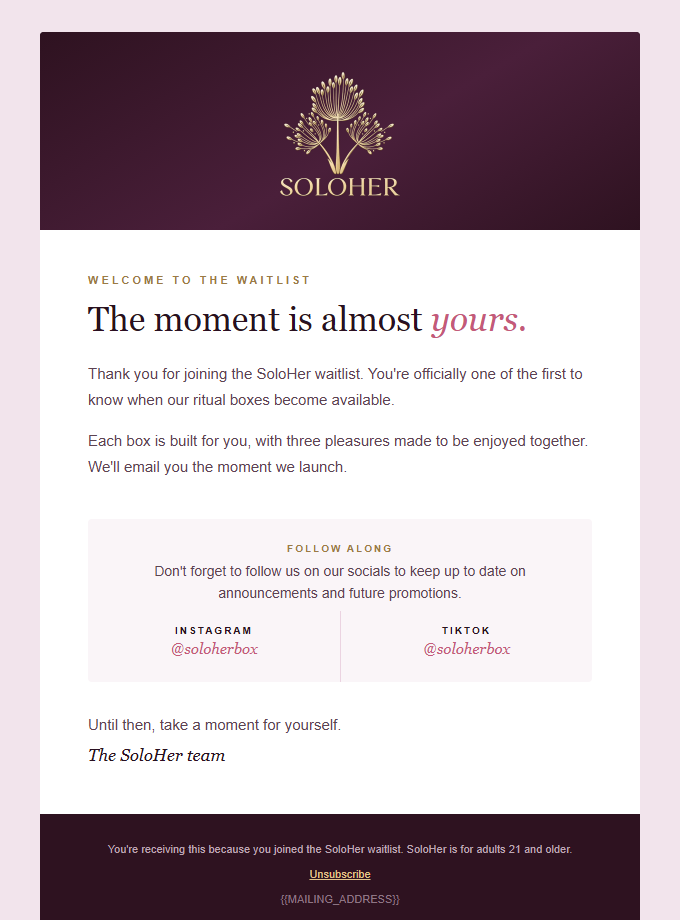
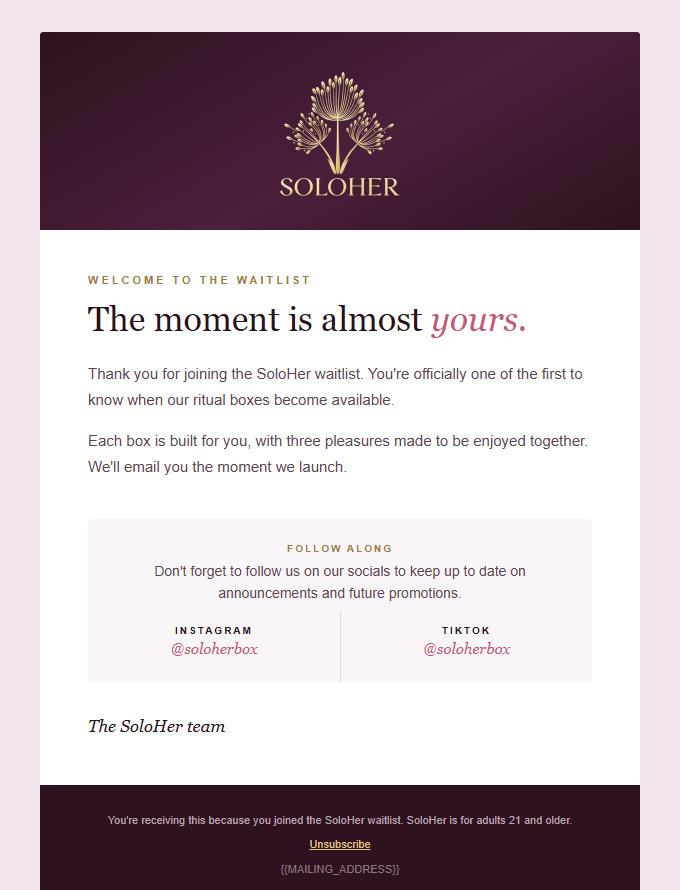
Welcome email draft: drop 'Until then' line

diff --git a/mockups/email/waitlist-welcome.html b/mockups/email/waitlist-welcome.html
@@ -83,7 +83,6 @@
           <!-- Sign-off -->
           <tr>
             <td style="padding:30px 48px 44px;font-family:Arial,Helvetica,sans-serif;font-size:15px;line-height:1.7;color:#5C4352;">
-              <p style="margin:0 0 4px;">Until then, take a moment for yourself.</p>
               <p style="margin:0;font-family:Georgia,'Times New Roman',serif;font-style:italic;font-size:17px;color:#2A1020;">The SoloHer team</p>
             </td>
           </tr>
